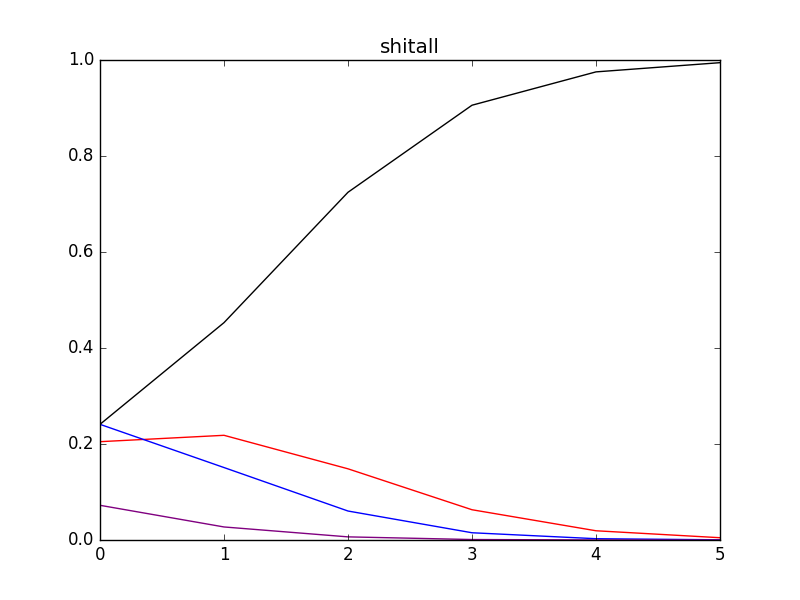
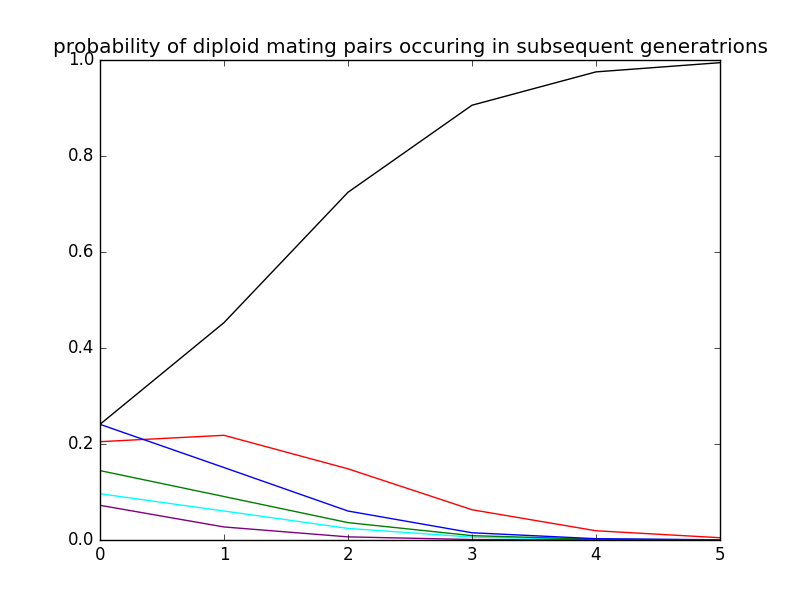
latest update

Changed region(s): [[0.0625, 0.06, 0.9688, 0.09], [0.125, 0.78, 0.6875, 0.9]]

diff --git a/take1.py b/take1.py
@@ -171,9 +171,9 @@ while n <= gen:
 print w_list[5]
 print u_list[5]
 print v_list[5]
-aa = (w + u + v)
-Aa = (Q + J + v)/2
-AA = (K + v + Q)/2
+aa = (w/2) + u + (v/2)
+Aa = (Q + J + v)
+AA = (K + v + Q)
 
 print "frequency of aa individuals: " + str(aa)
 print "frequency of Aa individuals: " + str(Aa)
@@ -185,8 +185,8 @@ print "frequency of AA individuals: " + str(AA)
 plt.title('probability of diploid mating pairs occuring in subsequent generatrions')
 # plt.axis([0,tmax,0,1.0])
 plt.plot(w_prob, 'red')
-# plt.plot(K_prob, 'cyan')
-# plt.plot(Q_prob, 'green')
+plt.plot(K_prob, 'cyan')
+plt.plot(Q_prob, 'green')
 plt.plot(J_prob, 'blue')
 plt.plot(v_prob, 'black')
 plt.plot(u_prob, 'purple')
@@ -200,6 +200,6 @@ plt.plot(Q_list, 'green')
 plt.plot(J_list, 'blue')
 plt.plot(v_list, 'black')
 plt.plot(u_list, 'purple')
-# plt.plot(N_graph, "pink")
+plt.plot(N_graph, "pink")
 plt.savefig("population")
 plt.show()
